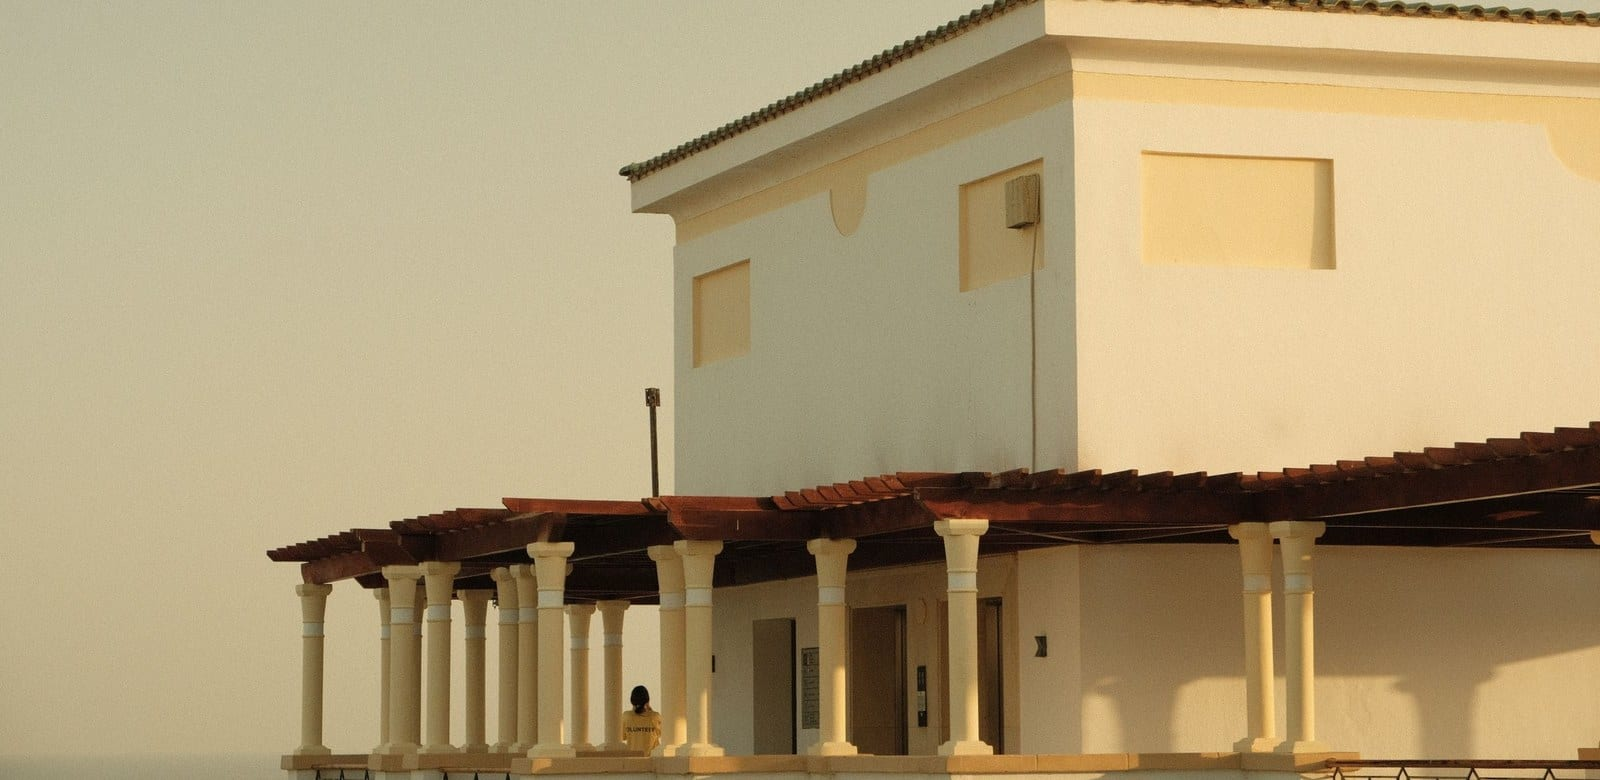
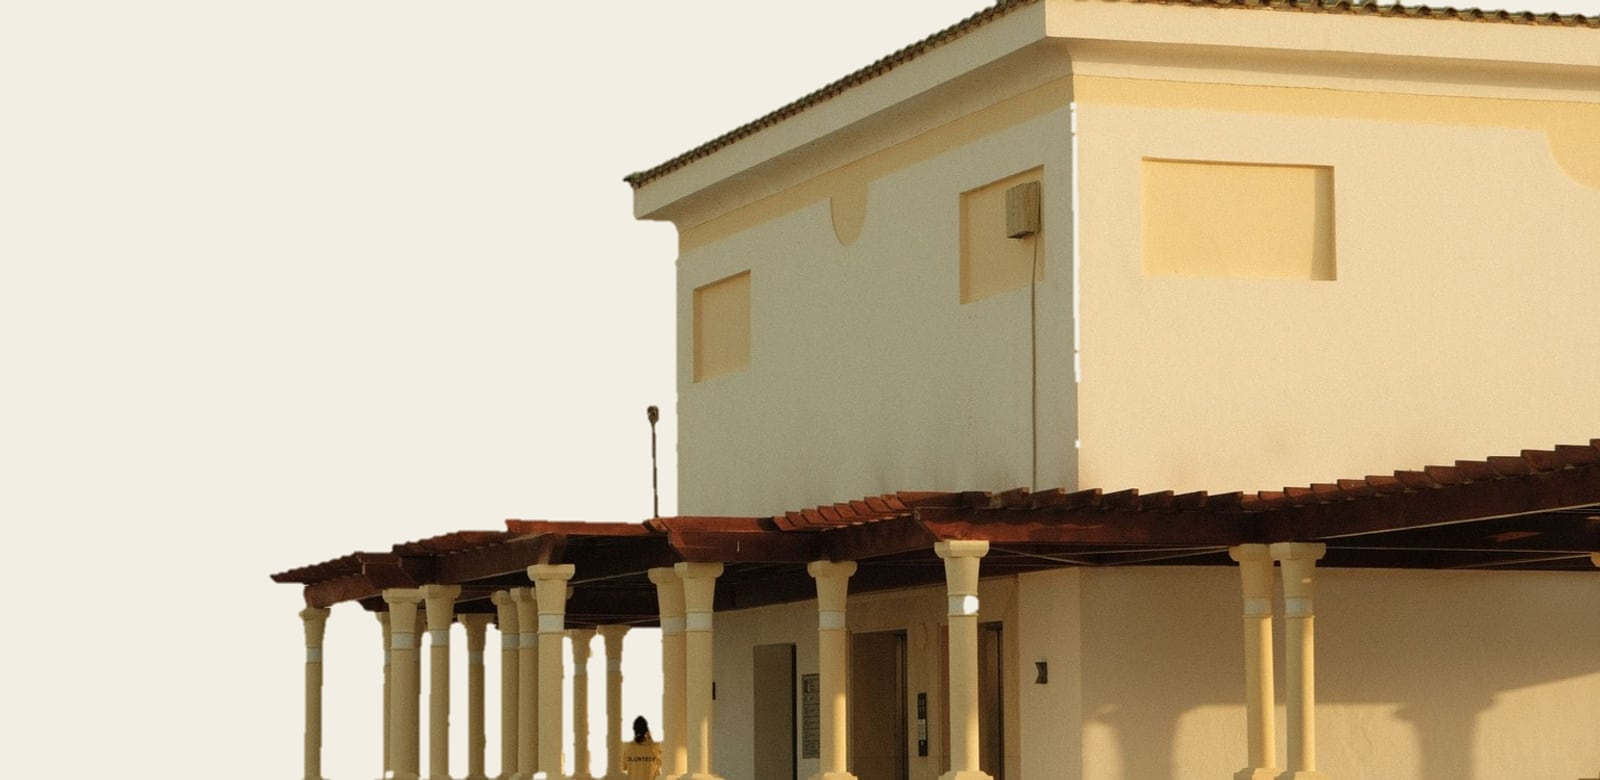
feat(cta): composite the villa onto the client's cream so it reads as a cut-out
Use the client's swatch (#f3eee4) as the CTA image background: key the sky,
the hazy sea behind the pergola and the sensor dust out of the 2.05:1 golden
villa crop, then composite the building onto a flat cream field at 1600x780.
The plate keeps the same cream from --color-bg-alt, so the image and the card
are one surface.

The key is a per-row sky model seeded from the open left strip, a wider pass
for the warm haze that sits behind the colonnade, a small-island filter for
the dust, and a two-pixel erosion so the anti-aliased rim does not leave a
pale halo. Source frame stays untouched beside it.

diff --git a/README.md b/README.md
@@ -516,8 +516,14 @@ placeholders; the reference only shows row `01` expanded.
   (phone, email, studio, Instagram).
 - The image is a 2.05:1 rounded plate with a soft shadow: a golden-hour
   Mediterranean villa whose cream stucco and terracotta roof pick up the
-  section's cream and oxblood palette. The source frame was cropped to 2.05:1 so
-  the roofline, colonnade and sea horizon all sit inside the plate.
+  section's cream and oxblood palette.
+- **Background cut-out (19 Nov 2026).** The plate uses the client's cream
+  swatch (`--color-bg-alt`, `#f3eee4`) as its background and the villa is keyed
+  out of the original photograph, so the building reads as if it sits on the
+  card rather than in a photo. The sky, the hazy sea behind the colonnade and
+  the sensor dust are removed, then the building is composited onto a flat
+  cream field at 1600 × 780. The plate's CSS background is the same cream, so
+  the image edge and the card are one surface if the file ever letterboxes.
 - ≤ 1024 px the content stacks and the image retains a wide 2.2:1 crop; ≤ 768 px
   it narrows to 1.8:1, ≤ 480 px to 1.5:1 and the metadata becomes a single
   column.
@@ -620,7 +626,10 @@ The original Estatia photography was not supplied. Every slot is filled with a
 free-licence Unsplash or Pexels image, retrieved 7 November 2026 at 2200 px on
 the long edge and served through Astro Assets as AVIF/WebP with a JPEG fallback.
 The CTA plate was re-cropped to 2.05:1 from a 2400 × 1600 source; the untouched
-frame is kept beside it at `cta/source/golden-mediterranean-facade.jpg`.
+frame is kept beside it at `cta/source/golden-mediterranean-facade.jpg`. On
+19 November 2026 the sky was keyed out of that crop and the villa was composited
+onto flat `#f3eee4` cream, at the client's request, so the building sits on the
+same cream as the card (see [CTA / contact band](#cta--contact-band)).
 
 | Section | File | Source | Licence |
 |---|---|---|---|

diff --git a/DESIGN_REFERENCE.md b/DESIGN_REFERENCE.md
@@ -219,6 +219,10 @@ All values are **visually estimated from the low-resolution reference**; they ar
 > request and no longer exists in the build; row 10's avatar cluster is now a
 > set of initials chips.
 
+> **Update, 19 November 2026.** The CTA plate follows the same rule as the hero:
+> the villa is now a cut-out composited onto `#f3eee4`, so both large images read
+> as buildings standing on cream rather than photographs with skies.
+
 ---
 
 ## 6. Layout, spacing, sizing
@@ -346,6 +350,16 @@ Not derivable from a desktop-only capture. Conservative, reference-faithful assu
 > fits with the theme", so the plate now holds a golden-hour Mediterranean villa
 > (Pexels 34939808) cropped to 2.05:1 — cream stucco, terracotta roof and a warm
 > sky that sit inside the section's cream/oxblood palette. Geometry is unchanged.
+
+> **Update, 19 November 2026.** The client re-sent the cream swatch (`#f3eee4`)
+> with "use this color for bg so that building look like with bg remove". The sky,
+> the hazy sea behind the colonnade and the sensor dust are now keyed out of the
+> 2.05:1 crop and the villa is composited onto a flat `#f3eee4` field at
+> 1600 × 780, so the building reads as sitting on the card itself. The cut-out is
+> built from a per-row sky model plus a warm-haze pass, a small-island filter for
+> the dust, and a two-pixel erosion so the anti-aliased rim does not leave a pale
+> halo. `.cta__media` also uses `--color-bg-alt` as its background so the plate
+> and the image are one surface. The source frame is untouched.
 
 ### 7.9 Footer
 - No link columns, no legal row visible.
